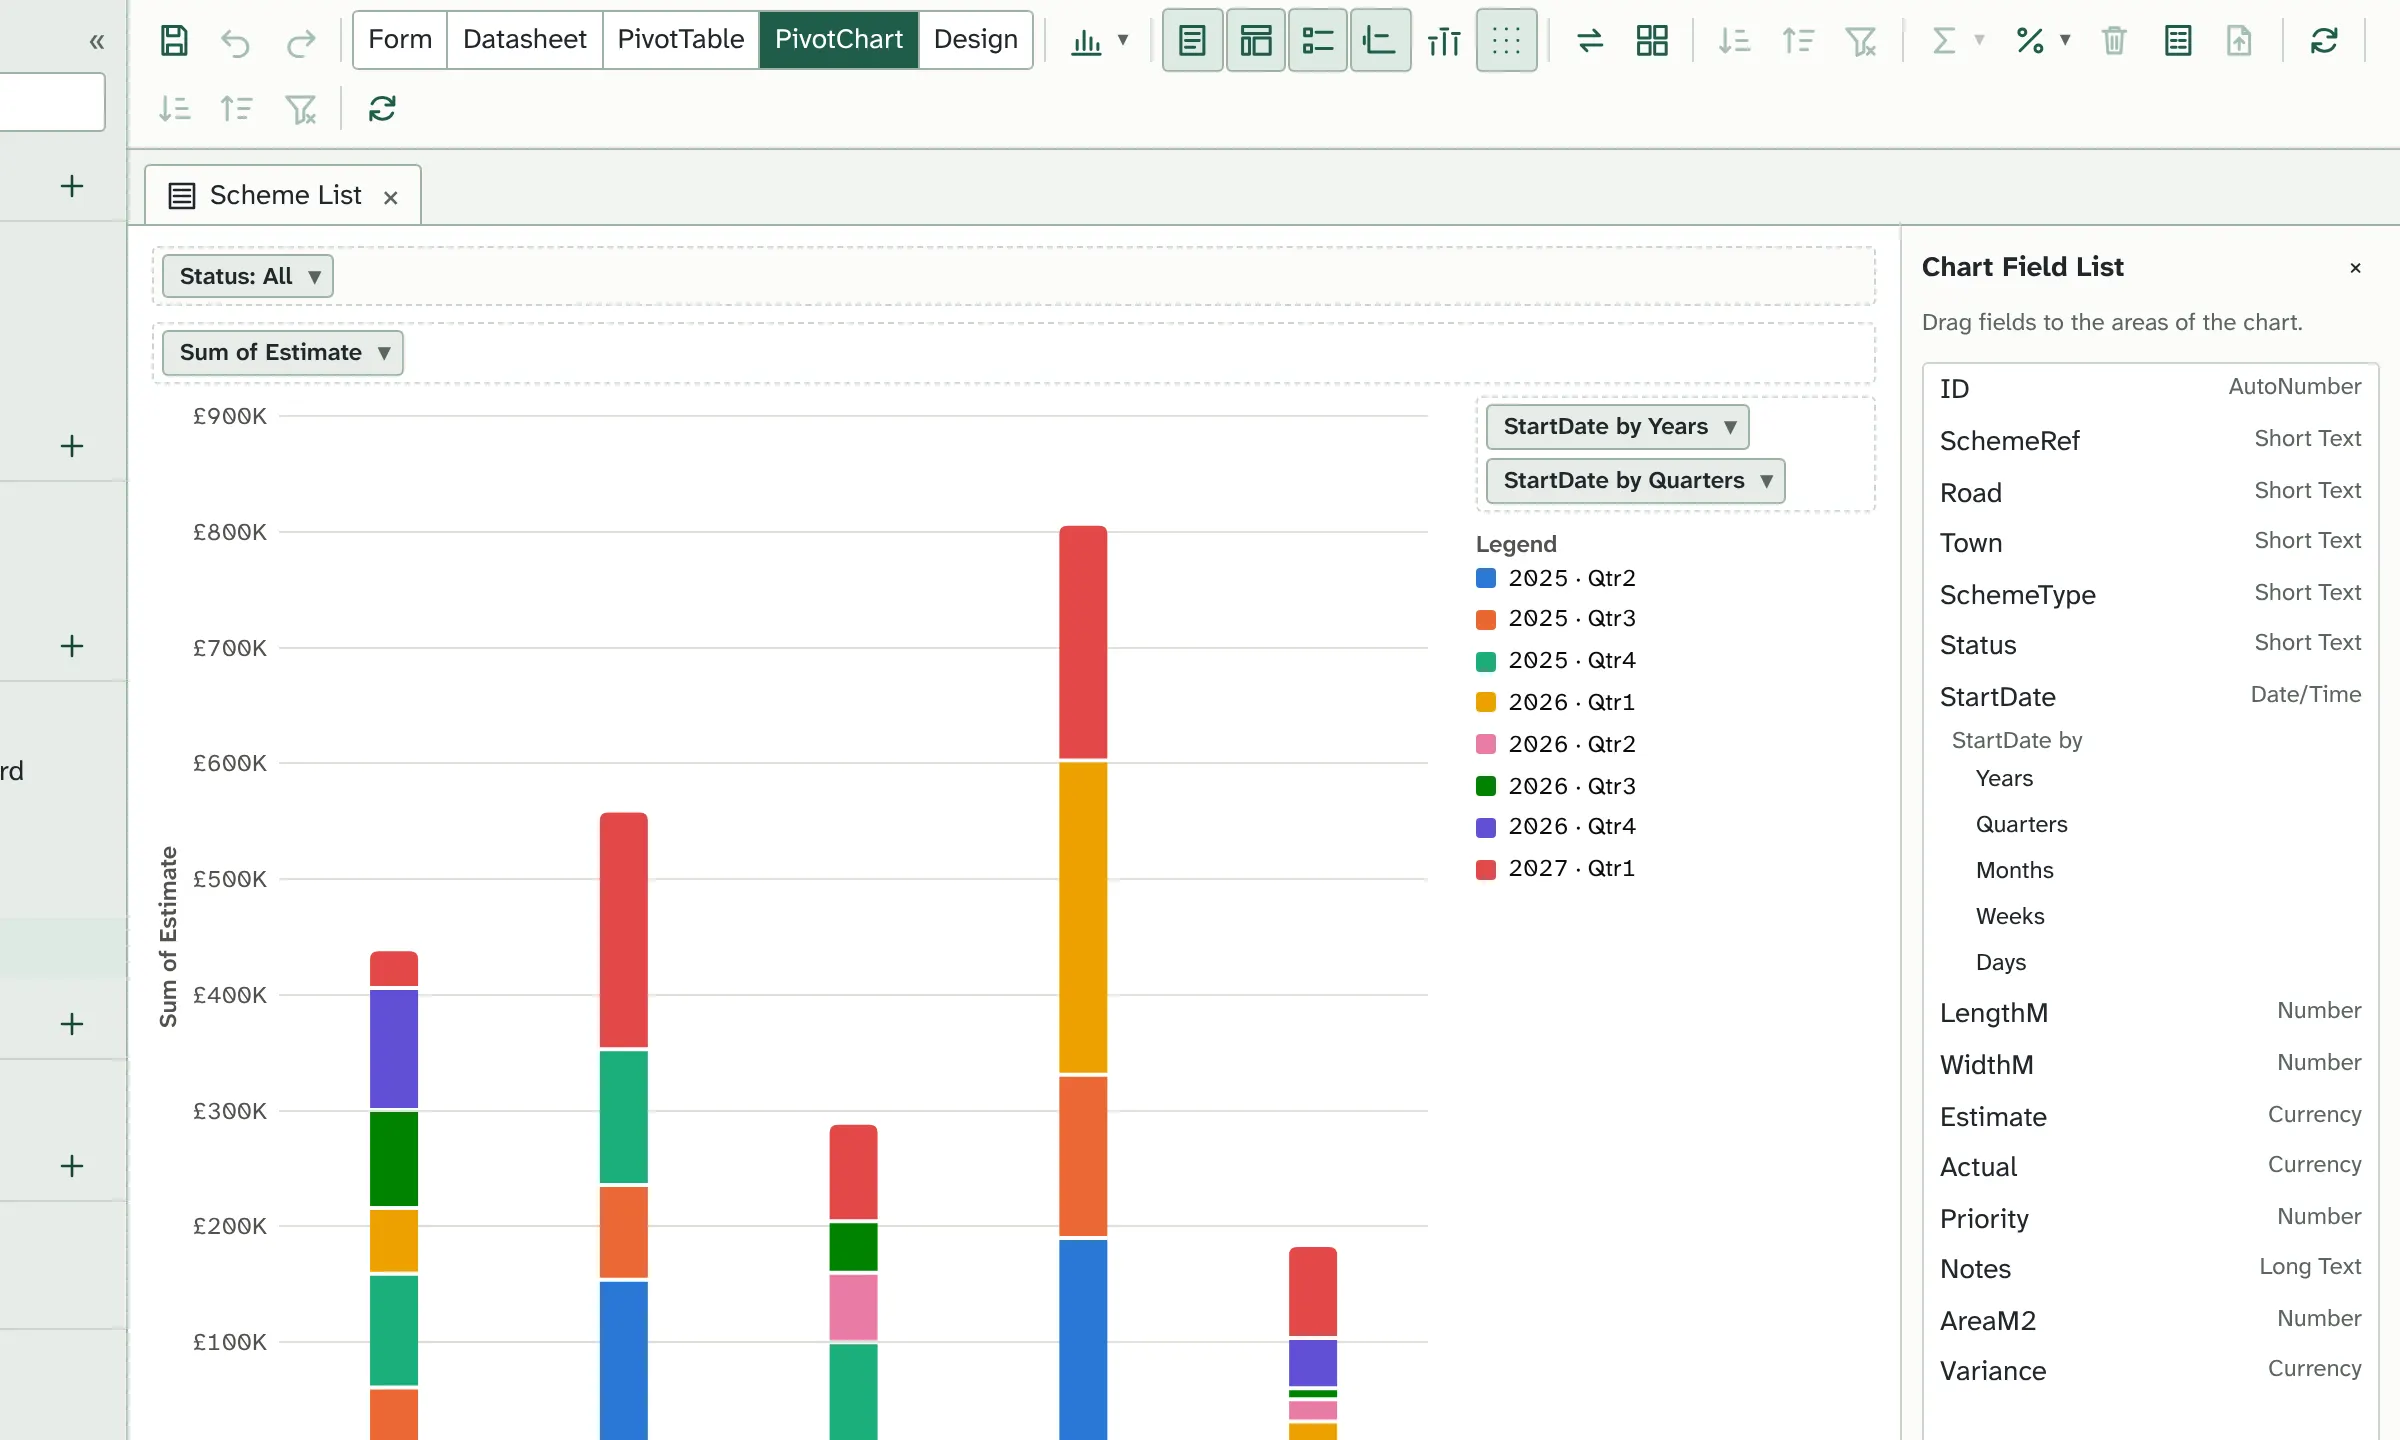
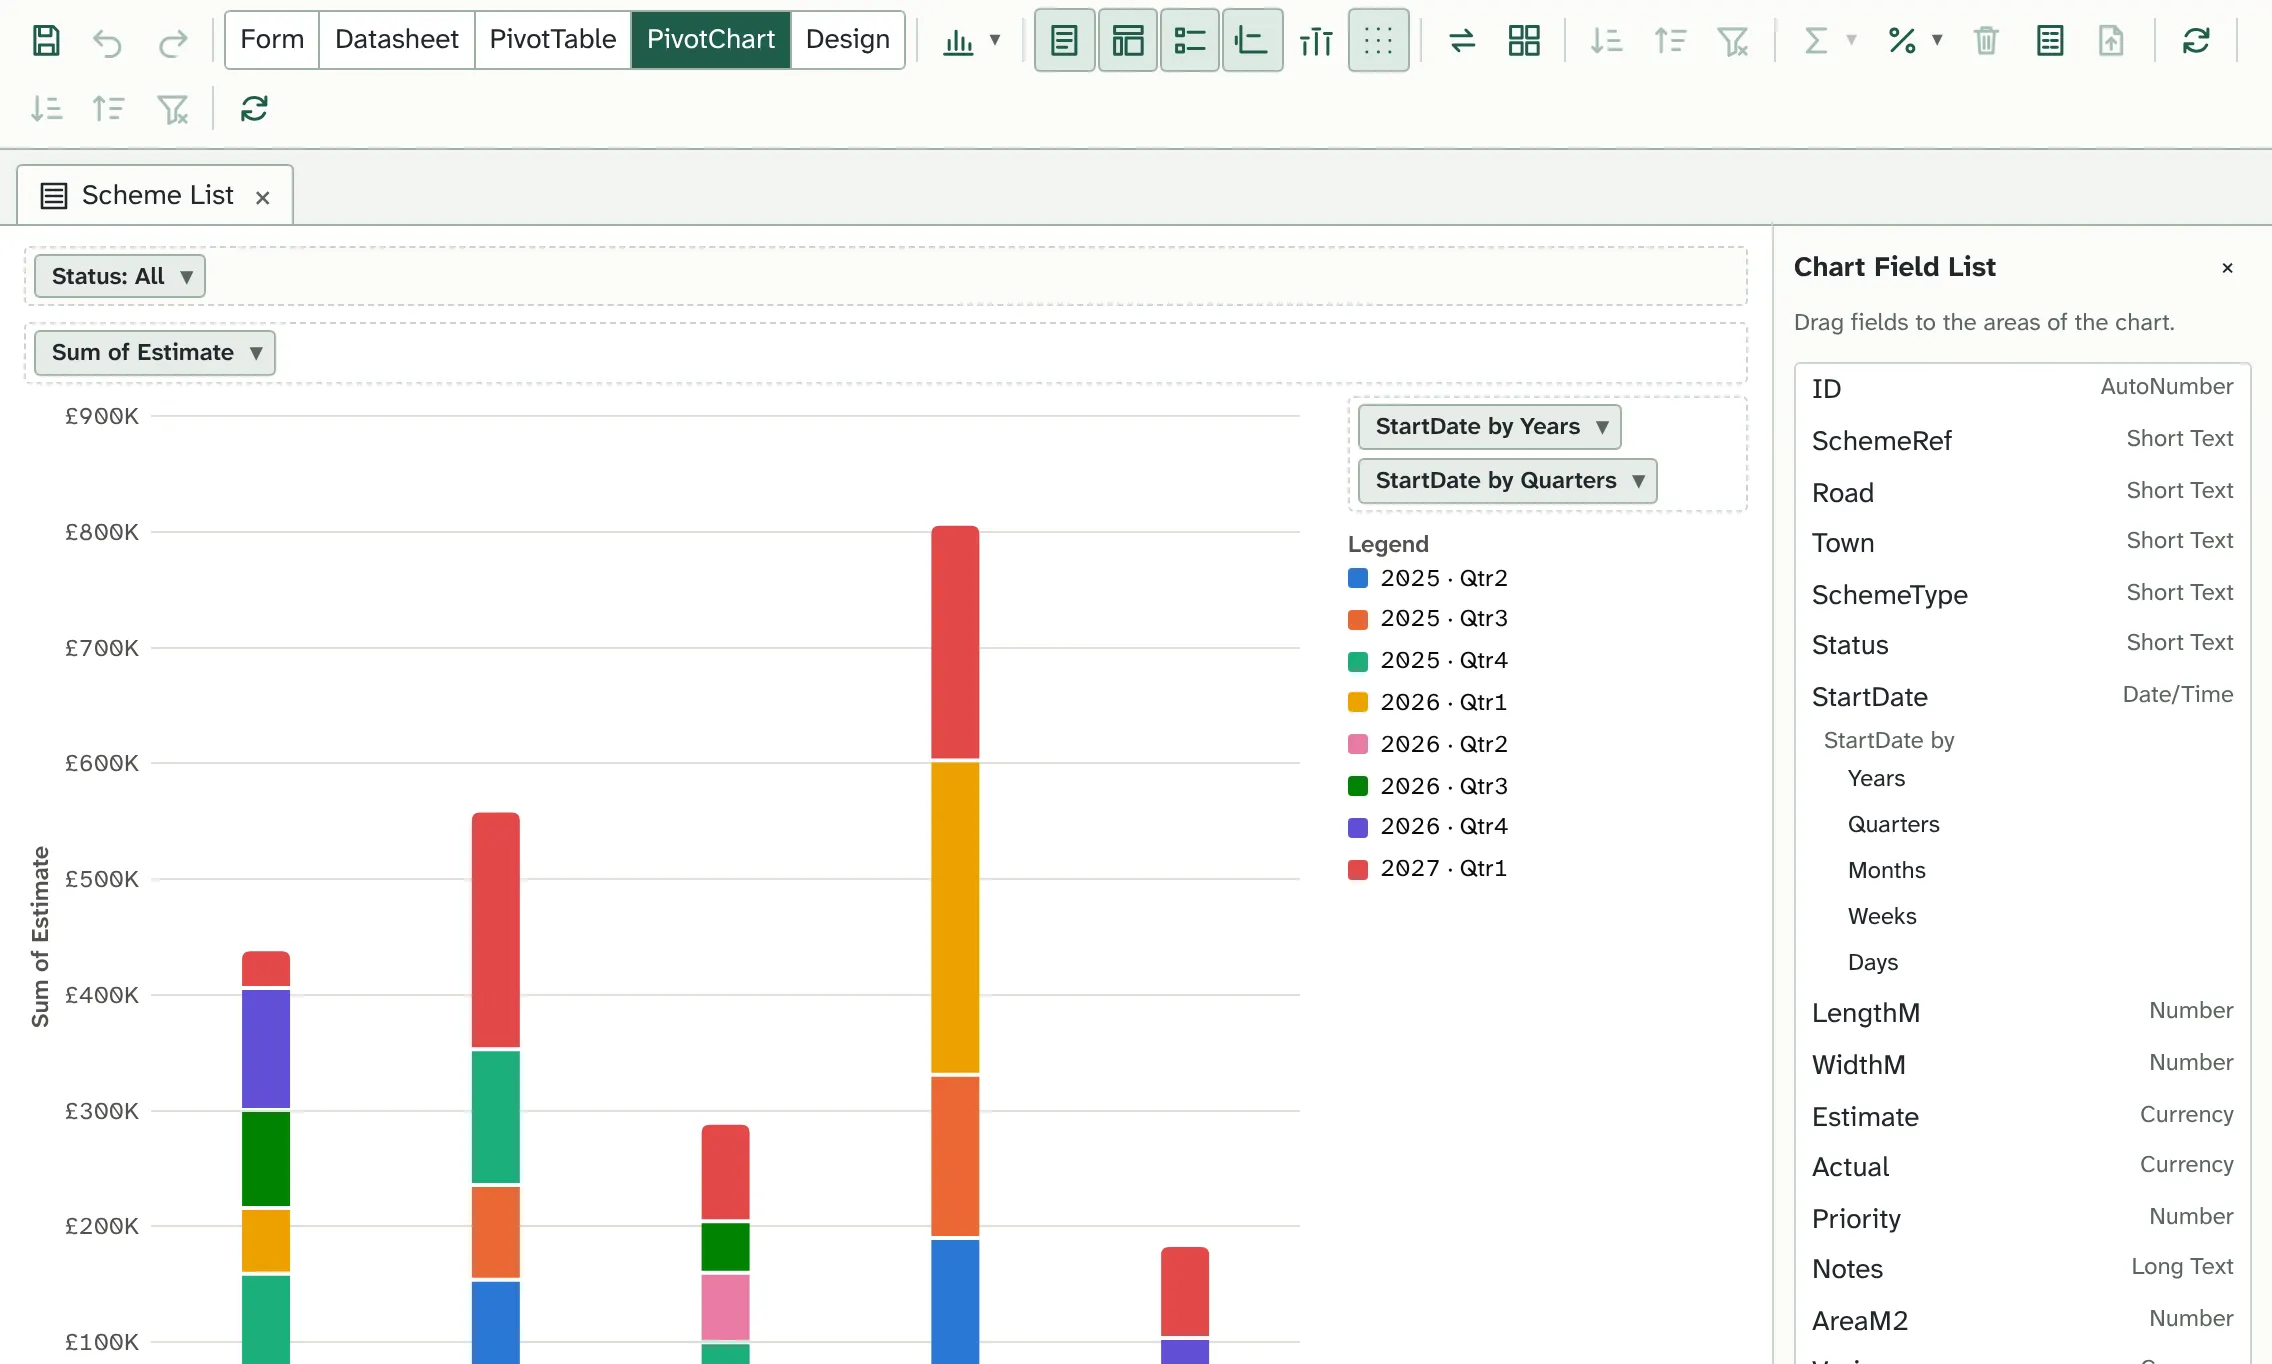
Crop screenshots from the Navigation Pane's edge (work in progress, not for main yet)
With the rail, the pane ends at x 304, so crops from x 240 showed its + buttons
down the left. Document crops are now 1136x682 from x 304; the import crop is
the dialog alone. Held until the new controls reach staging.

Claude-Session: https://claude.ai/code/session_01SXnACFwJBHYCA6EeHeGctB

diff --git a/public/index.html b/public/index.html
@@ -211,10 +211,10 @@
         <button role="tab" type="button" aria-selected="true" data-img="demo-menu" data-alt="Fieldfare Traders' Main Menu: buttons for customers, orders, products, sales and reports, and figures at a glance">Main Menu</button>
         <button role="tab" type="button" aria-selected="false" data-img="demo-orders" data-alt="The Orders form, with order lines in a subform and a Print Invoice button">Orders</button>
         <button role="tab" type="button" aria-selected="false" data-img="demo-dashboard" data-alt="A PivotChart of sales by year and category">Sales dashboard</button>
-        <button role="tab" type="button" aria-selected="false" data-img="demo-signin" data-alt="The demo's sign-in page, with a Try the demo button">Start</button>
+        <button role="tab" type="button" aria-selected="false" data-img="demo-signin" data-w="1200" data-h="720" data-alt="The demo's sign-in page, with a Try the demo button">Start</button>
       </div>
       <div class="frame" role="tabpanel">
-        <img src="/img/demo-menu.webp" srcset="/img/demo-menu.webp 1200w, /img/demo-menu@2x.webp 2400w" sizes="(min-width: 1100px) 760px, 94vw" width="1200" height="720" loading="lazy" alt="Fieldfare Traders' Main Menu: buttons for customers, orders, products, sales and reports, and figures at a glance">
+        <img src="/img/demo-menu.webp" srcset="/img/demo-menu.webp 1136w, /img/demo-menu@2x.webp 2272w" sizes="(min-width: 1100px) 760px, 94vw" width="1136" height="682" loading="lazy" alt="Fieldfare Traders' Main Menu: buttons for customers, orders, products, sales and reports, and figures at a glance">
       </div>
     </figure>
   </div>
@@ -244,10 +244,10 @@
         <button role="tab" type="button" aria-selected="false" data-img="table-design" data-alt="Table Design view with a Calculated field selected, showing its expression, result type and format">Table design</button>
         <button role="tab" type="button" aria-selected="false" data-img="query-criteria" data-alt="Query Design grid with criteria on Status and StartDate across two rows">Query design</button>
         <button role="tab" type="button" aria-selected="false" data-img="query-totals" data-alt="A totals query joining Schemes to SchemeTypes, with Group By, Count, Sum and Max">Totals</button>
-        <button role="tab" type="button" aria-selected="false" data-img="sql-view" data-w="1200" data-h="420" data-alt="SQL view of the same query, in Access SQL">SQL</button>
+        <button role="tab" type="button" aria-selected="false" data-img="sql-view" data-w="1136" data-h="398" data-alt="SQL view of the same query, in Access SQL">SQL</button>
       </div>
       <div class="frame" role="tabpanel">
-        <img src="/img/datasheet.webp" srcset="/img/datasheet.webp 1200w, /img/datasheet@2x.webp 2400w" sizes="(min-width: 1100px) 760px, 94vw" width="1200" height="720" loading="lazy" alt="A table of highway schemes in Datasheet view">
+        <img src="/img/datasheet.webp" srcset="/img/datasheet.webp 1136w, /img/datasheet@2x.webp 2272w" sizes="(min-width: 1100px) 760px, 94vw" width="1136" height="682" loading="lazy" alt="A table of highway schemes in Datasheet view">
       </div>
     </figure>
   </div>
@@ -275,12 +275,12 @@
         <button role="tab" type="button" aria-selected="true" data-img="form-view" data-alt="A single form for one highway scheme, with a defects subform on a tab control">Form</button>
         <button role="tab" type="button" aria-selected="false" data-img="continuous-form" data-alt="A continuous form with status colours, data bars and a total in the footer">Continuous</button>
         <button role="tab" type="button" aria-selected="false" data-img="form-design" data-alt="Form Design view with the field list and property sheet">Design</button>
-        <button role="tab" type="button" aria-selected="false" data-img="conditional-formatting" data-w="1200" data-h="560" data-alt="The Conditional Formatting Rules Manager with three Field Value Is rules">Conditional formatting</button>
+        <button role="tab" type="button" aria-selected="false" data-img="conditional-formatting" data-w="1136" data-h="530" data-alt="The Conditional Formatting Rules Manager with three Field Value Is rules">Conditional formatting</button>
         <button role="tab" type="button" aria-selected="false" data-img="chart-dashboard" data-alt="A dashboard form with two Chart controls: estimate and actual by scheme type, and schemes by status">Charts</button>
         <button role="tab" type="button" aria-selected="false" data-img="treeview-listview" data-alt="A form with a TreeView of scheme types and schemes, and a ListView of the chosen type's schemes, both filled by VBA">Trees and lists</button>
       </div>
       <div class="frame" role="tabpanel">
-        <img src="/img/form-view.webp" srcset="/img/form-view.webp 1200w, /img/form-view@2x.webp 2400w" sizes="(min-width: 1100px) 760px, 94vw" width="1200" height="720" loading="lazy" alt="A single form for one highway scheme, with a defects subform on a tab control">
+        <img src="/img/form-view.webp" srcset="/img/form-view.webp 1136w, /img/form-view@2x.webp 2272w" sizes="(min-width: 1100px) 760px, 94vw" width="1136" height="682" loading="lazy" alt="A single form for one highway scheme, with a defects subform on a tab control">
       </div>
     </figure>
   </div>
@@ -309,7 +309,7 @@
         <button role="tab" type="button" aria-selected="false" data-img="report-design" data-alt="Report Design view with its sections and the Group, Sort, and Total pane">Design</button>
       </div>
       <div class="frame" role="tabpanel">
-        <img src="/img/report-view.webp" srcset="/img/report-view.webp 1200w, /img/report-view@2x.webp 2400w" sizes="(min-width: 1100px) 760px, 94vw" width="1200" height="720" loading="lazy" alt="A report of highway schemes grouped by type, with a subtotal for each type">
+        <img src="/img/report-view.webp" srcset="/img/report-view.webp 1136w, /img/report-view@2x.webp 2272w" sizes="(min-width: 1100px) 760px, 94vw" width="1136" height="682" loading="lazy" alt="A report of highway schemes grouped by type, with a subtotal for each type">
       </div>
     </figure>
   </div>
@@ -335,7 +335,7 @@
         <button role="tab" type="button" aria-selected="false" data-img="pivotchart" data-alt="A stacked column PivotChart of the same estimates">PivotChart</button>
       </div>
       <div class="frame" role="tabpanel">
-        <img src="/img/pivottable.webp" srcset="/img/pivottable.webp 1200w, /img/pivottable@2x.webp 2400w" sizes="(min-width: 1100px) 760px, 94vw" width="1200" height="720" loading="lazy" alt="A PivotTable of estimates by scheme type, with columns grouped by year and quarter">
+        <img src="/img/pivottable.webp" srcset="/img/pivottable.webp 1136w, /img/pivottable@2x.webp 2272w" sizes="(min-width: 1100px) 760px, 94vw" width="1136" height="682" loading="lazy" alt="A PivotTable of estimates by scheme type, with columns grouped by year and quarter">
       </div>
     </figure>
   </div>
@@ -363,7 +363,7 @@
         <button role="tab" type="button" aria-selected="false" data-img="form-code" data-alt="The module behind a form, with Form_Current and a button's Click event">Form module</button>
       </div>
       <div class="frame" role="tabpanel">
-        <img src="/img/debugger.webp" srcset="/img/debugger.webp 1200w, /img/debugger@2x.webp 2400w" sizes="(min-width: 1100px) 760px, 94vw" width="1200" height="720" loading="lazy" alt="Code paused at a breakpoint, with the current line highlighted and Locals listing the variables">
+        <img src="/img/debugger.webp" srcset="/img/debugger.webp 1136w, /img/debugger@2x.webp 2272w" sizes="(min-width: 1100px) 760px, 94vw" width="1136" height="682" loading="lazy" alt="Code paused at a breakpoint, with the current line highlighted and Locals listing the variables">
       </div>
     </figure>
   </div>
@@ -397,8 +397,8 @@
     <div class="web-grid">
       <figure class="shot shot-dark" data-views>
         <div class="viewbar" role="tablist" aria-label="Users screens">
-          <button role="tab" type="button" aria-selected="true" data-img="user-view" data-alt="A User's view of a form: the same form in the runtime, with no design tools">What a user sees</button>
-          <button role="tab" type="button" aria-selected="false" data-img="users" data-w="1200" data-h="420" data-alt="The Users screen listing admins and users, with their roles and last sign-in">Users and roles</button>
+          <button role="tab" type="button" aria-selected="true" data-img="user-view" data-w="1200" data-h="720" data-alt="A User's view of a form: the same form in the runtime, with no design tools">What a user sees</button>
+          <button role="tab" type="button" aria-selected="false" data-img="users" data-w="1136" data-h="398" data-alt="The Users screen listing admins and users, with their roles and last sign-in">Users and roles</button>
         </div>
         <div class="frame" role="tabpanel">
           <img src="/img/user-view.webp" srcset="/img/user-view.webp 1200w, /img/user-view@2x.webp 2400w" sizes="(min-width: 1100px) 700px, 94vw" width="1200" height="720" loading="lazy" alt="A User's view of a form: the same form in the runtime, with no design tools">
@@ -434,7 +434,7 @@
     </ol>
     <figure class="shot shot-plain">
       <div class="frame">
-        <img src="/img/import-access.webp" srcset="/img/import-access.webp 1000w, /img/import-access@2x.webp 2000w" sizes="(min-width: 1100px) 900px, 94vw" width="1000" height="540" loading="lazy" alt="The Import Objects dialog, with tabs for tables, queries, forms, reports, macros and modules">
+        <img src="/img/import-access.webp" srcset="/img/import-access.webp 980w, /img/import-access@2x.webp 1960w" sizes="(min-width: 1100px) 900px, 94vw" width="980" height="518" loading="lazy" alt="The Import Objects dialog, with tabs for tables, queries, forms, reports, macros and modules">
       </div>
       <figcaption>Import Objects, with a tab for each kind of object</figcaption>
     </figure>

diff --git a/public/js/site.js b/public/js/site.js
@@ -136,8 +136,8 @@ document.querySelectorAll('[data-views]').forEach((fig) => {
       t.tabIndex = on ? 0 : -1;
     });
     const name = tab.dataset.img;
-    const w = Number(tab.dataset.w || 1200);
-    const h = Number(tab.dataset.h || 720);
+    const w = Number(tab.dataset.w || 1136);
+    const h = Number(tab.dataset.h || 682);
     img.classList.add('loading');
     img.onload = () => img.classList.remove('loading');
     img.width = w;
